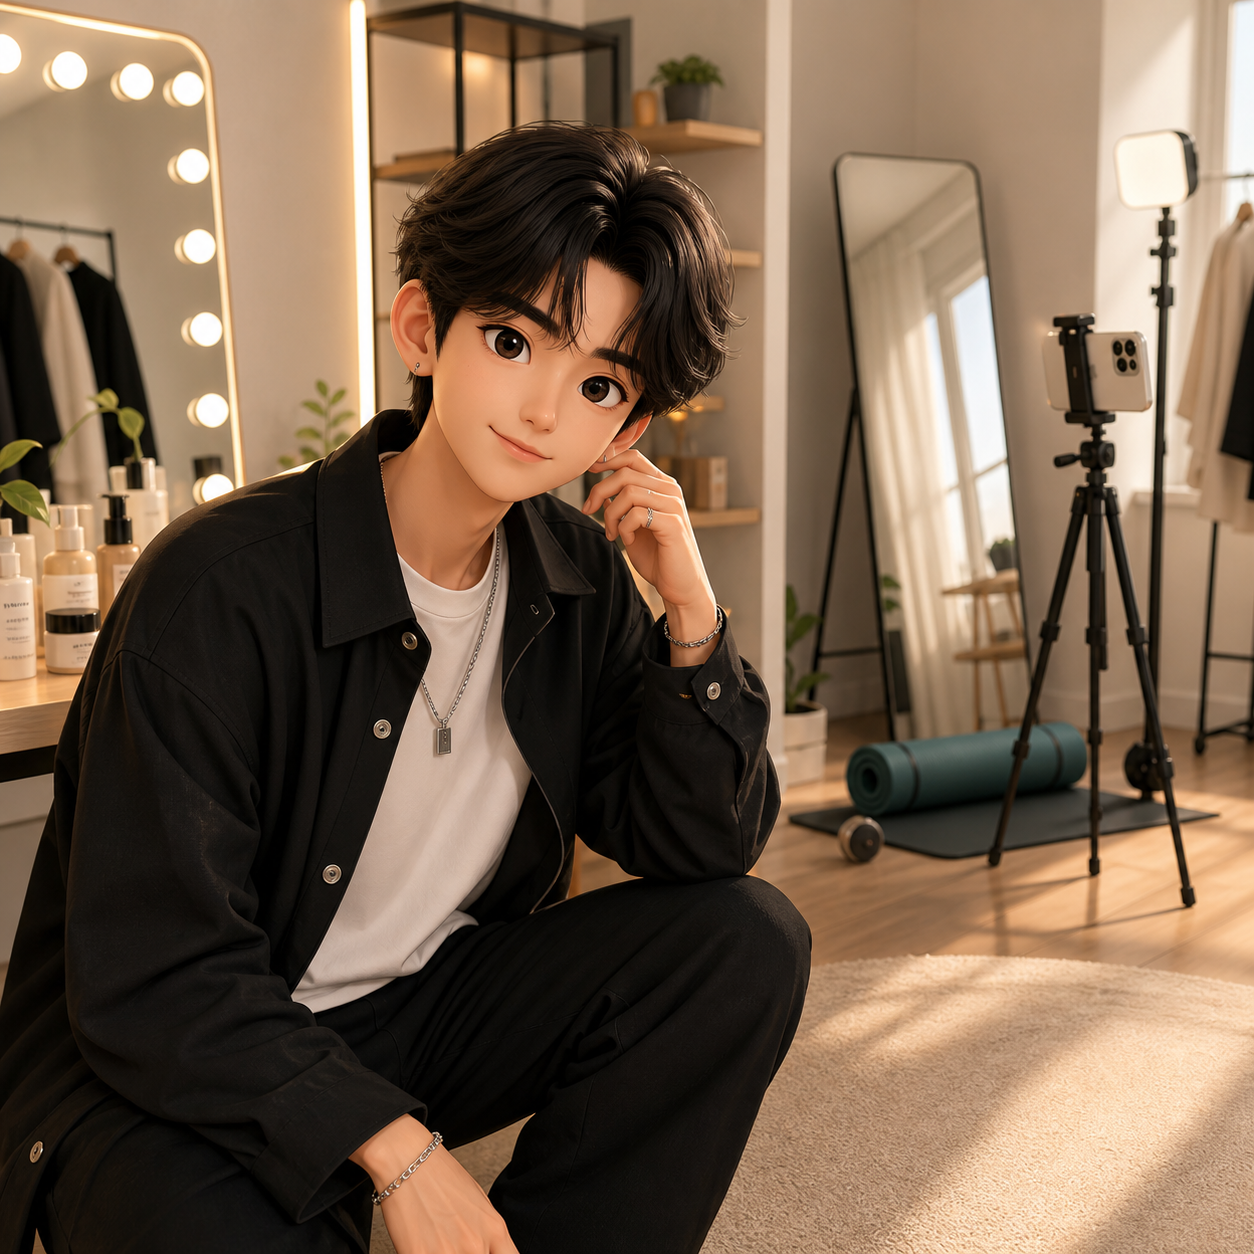
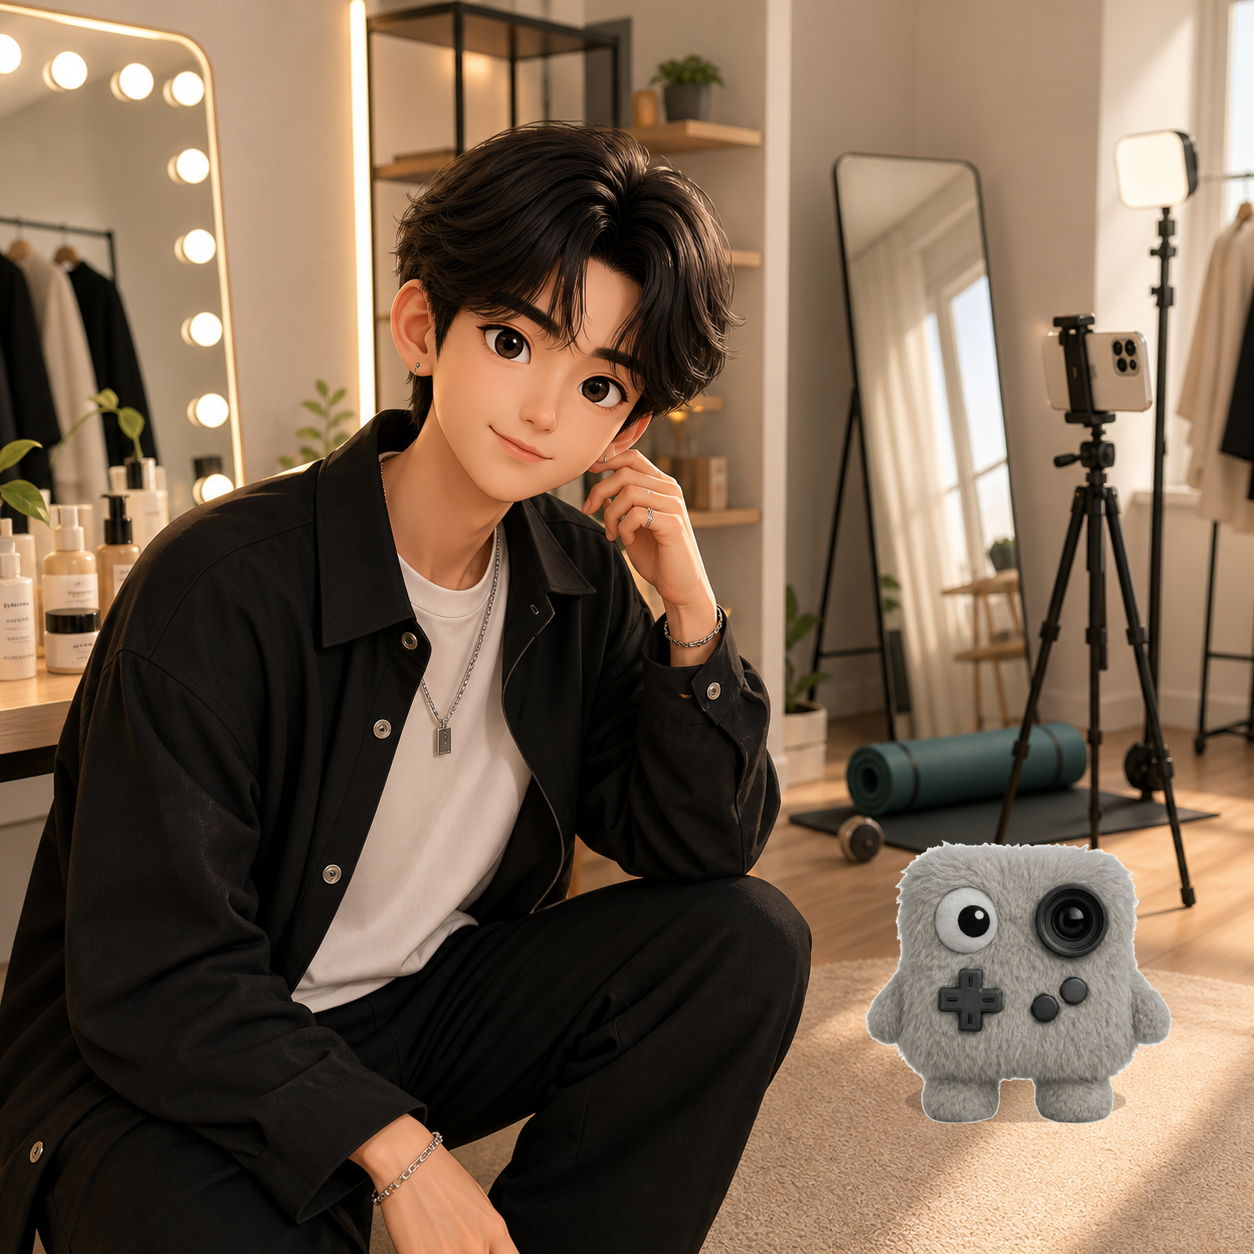
Composite existing Mobby into Shoki images

Changed region(s): [[0.6842, 0.6531, 0.933, 0.9019]]

diff --git a/docs/shoki/index.html b/docs/shoki/index.html
@@ -54,12 +54,6 @@
     .big { font-size: 24px; font-weight: 700; margin: 0 0 16px; color: var(--text-main); }
     .text-body { color: var(--text-sub); font-size: 14px; line-height: 1.8; }
     .hero-image { width: min(360px, 100%); aspect-ratio: 1 / 1; object-fit: cover; border-radius: 18px; box-shadow: var(--shadow-sm); margin: 0 auto 28px; display: block; }
-    .mobby-scene { position: relative; width: min(360px, 100%); aspect-ratio: 1 / 1; border-radius: 18px; box-shadow: var(--shadow-sm); margin: 0 auto 28px; overflow: hidden; background: #fff; }
-    .mobby-scene.result { width: min(420px, 100%); border-radius: 20px; box-shadow: var(--shadow-lg); margin-bottom: 22px; }
-    .mobby-scene.card { width: 100%; border-radius: 0; box-shadow: none; margin: 0; }
-    .mobby-scene .scene-bg { width: 100%; height: 100%; object-fit: cover; display: block; }
-    .mobby-scene .mobby-overlay { position: absolute; right: 5%; bottom: 5%; width: 30%; aspect-ratio: 1 / 1; object-fit: cover; display: block; border-radius: 16px; background: #fff; border: 1px solid rgba(222,216,210,0.9); box-shadow: 0 8px 20px rgba(61,45,28,0.16); }
-    .mobby-scene.card .mobby-overlay { right: 6%; bottom: 6%; width: 34%; border-radius: 14px; }
     .progress-wrap { margin-bottom: 20px; }
     .progress-meta { display: flex; justify-content: space-between; color: var(--text-sub); font-size: 12px; margin-bottom: 8px; }
     .progress-track { height: 8px; border-radius: 999px; background: rgba(0,0,0,0.06); overflow: hidden; }
@@ -341,9 +335,6 @@
     function socialLinksHtml(){
       return `<div class="social-links">${SOCIAL_LINKS.map((l, i) => `<a class="social-link ${i === 0 ? "primary" : ""}" href="${l.url}" target="_blank" rel="noopener">${l.label}</a>`).join("")}</div>`;
     }
-    function sceneHtml(src, alt, variant){
-      return `<div class="mobby-scene ${variant}"><img class="scene-bg" src="${src}" alt="${alt}"><img class="mobby-overlay" src="../img/Mobby.png" alt="Mobby"></div>`;
-    }
     function render(){
       document.getElementById("navDiagnosis").classList.toggle("active", state.step !== "characters");
       document.getElementById("navCharacters").classList.toggle("active", state.step === "characters");
@@ -357,7 +348,7 @@
       const count = Object.keys(state.answers || {}).length;
       app.innerHTML = `
         <section class="panel fade-in result-hero">
-          ${sceneHtml("img/shoki-mobby-osaka-style.png", "Shoki様の世界観に合わせた垢抜けスタイル", "hero")}
+          <img class="hero-image" src="img/shoki-mobby-osaka-style.png" alt="Shoki様の世界観に合わせた垢抜けスタイルとMobby">
           <p class="kicker">Mobby rough preview</p>
           <h2 class="big">Shoki 垢抜け<br>グロウ診断</h2>
           <p class="text-body" style="max-width:460px; margin:0 auto 30px;">直感で選ぶ20問から、自分磨き、ファッションの見せ方、ファンとつながるムードを診断します。Shoki様向けの参加型ラフ案です。</p>
@@ -433,12 +424,12 @@
       if(!isComplete()){ state.step = "intro"; render(); return; }
       const result = calcResult();
       const c = result.char;
-      app.innerHTML = `<div class="panel fade-in result-hero"><p class="kicker">RESULT</p><span class="type-code">TYPE ${result.code}</span><h2 class="big">${c.name}</h2>${sceneHtml(c.image, c.name, "result")}<p class="text-body" style="max-width:560px; margin:0 auto;">${c.summary}</p><p style="font-size:17px; font-weight:700; margin:22px auto 0; max-width:560px;">${c.catch}</p>${socialLinksHtml()}</div><div class="panel fade-in"><p class="kicker">3 AXES</p><h2 class="big">あなたのグロウバランス</h2>${renderAxis(result)}<p class="text-body">判定の濃さ: ${result.confidenceLabel}</p>${result.straightLine ? `<p class="text-body" style="color:#f97316;">同じ回答が多めです。気分を変えてもう一度試すと、少し違う結果になるかもしれません。</p>` : ""}${result.adjacentTypes.length ? `<p class="text-body">近いタイプ: ${result.adjacentTypes.map(t => t.name).join(" / ")}</p>` : ""}</div><div class="panel fade-in"><p class="kicker">DETAIL</p><h2 class="big">このタイプの見え方</h2><div class="section-grid"><div class="mini"><h3>似合うムード</h3><p>${c.hook}</p></div><div class="mini"><h3>しんどい時</h3><p>${c.downside}</p></div><div class="mini"><h3>周りから</h3><p>${c.perception}</p></div><div class="mini"><h3>今日の投稿ヒント</h3><p>${c.advice}</p></div><div class="mini"><h3>強み</h3><p>${c.strength}</p></div><div class="mini"><h3>気をつけたいこと</h3><p>${c.weakness}</p></div></div><div class="actions"><button class="primary" id="btnChars">8タイプを見る</button><button id="btnAgain">もう一度診断する</button></div></div>`;
+      app.innerHTML = `<div class="panel fade-in result-hero"><p class="kicker">RESULT</p><span class="type-code">TYPE ${result.code}</span><h2 class="big">${c.name}</h2><img class="result-img" src="${c.image}" alt="${c.name}"><p class="text-body" style="max-width:560px; margin:0 auto;">${c.summary}</p><p style="font-size:17px; font-weight:700; margin:22px auto 0; max-width:560px;">${c.catch}</p>${socialLinksHtml()}</div><div class="panel fade-in"><p class="kicker">3 AXES</p><h2 class="big">あなたのグロウバランス</h2>${renderAxis(result)}<p class="text-body">判定の濃さ: ${result.confidenceLabel}</p>${result.straightLine ? `<p class="text-body" style="color:#f97316;">同じ回答が多めです。気分を変えてもう一度試すと、少し違う結果になるかもしれません。</p>` : ""}${result.adjacentTypes.length ? `<p class="text-body">近いタイプ: ${result.adjacentTypes.map(t => t.name).join(" / ")}</p>` : ""}</div><div class="panel fade-in"><p class="kicker">DETAIL</p><h2 class="big">このタイプの見え方</h2><div class="section-grid"><div class="mini"><h3>似合うムード</h3><p>${c.hook}</p></div><div class="mini"><h3>しんどい時</h3><p>${c.downside}</p></div><div class="mini"><h3>周りから</h3><p>${c.perception}</p></div><div class="mini"><h3>今日の投稿ヒント</h3><p>${c.advice}</p></div><div class="mini"><h3>強み</h3><p>${c.strength}</p></div><div class="mini"><h3>気をつけたいこと</h3><p>${c.weakness}</p></div></div><div class="actions"><button class="primary" id="btnChars">8タイプを見る</button><button id="btnAgain">もう一度診断する</button></div></div>`;
       document.getElementById("btnChars").onclick = () => { state.step = "characters"; saveState(); render(); };
       document.getElementById("btnAgain").onclick = resetDiagnosis;
     }
     function renderCharacters(){
-      const cards = Object.entries(CHARACTERS).map(([code, c]) => `<article class="char-card fade-in">${sceneHtml(c.image, c.name, "card")}<div class="char-body"><p class="kicker">TYPE ${code}</p><h3>${c.name}</h3><p>${c.summary}</p></div></article>`).join("");
+      const cards = Object.entries(CHARACTERS).map(([code, c]) => `<article class="char-card fade-in"><img src="${c.image}" alt="${c.name}"><div class="char-body"><p class="kicker">TYPE ${code}</p><h3>${c.name}</h3><p>${c.summary}</p></div></article>`).join("");
       app.innerHTML = `<div class="panel fade-in"><p class="kicker">8 TYPES</p><h2 class="big">垢抜けグロウ診断 8タイプ</h2><p class="text-body">2枚のラフ画像をサンプルとして交互に配置しています。自分磨き、ファッション、親しみやすさ、ファンと共鳴する空気感をタイプごとに少しずつ表現しています。</p><div class="characters-grid">${cards}</div><div class="actions"><button class="primary" id="btnBackDiagnosis">${isComplete() ? "結果に戻る" : "診断する"}</button></div></div>`;
       document.getElementById("btnBackDiagnosis").onclick = () => { state.step = isComplete() ? "result" : "intro"; saveState(); render(); };
     }
